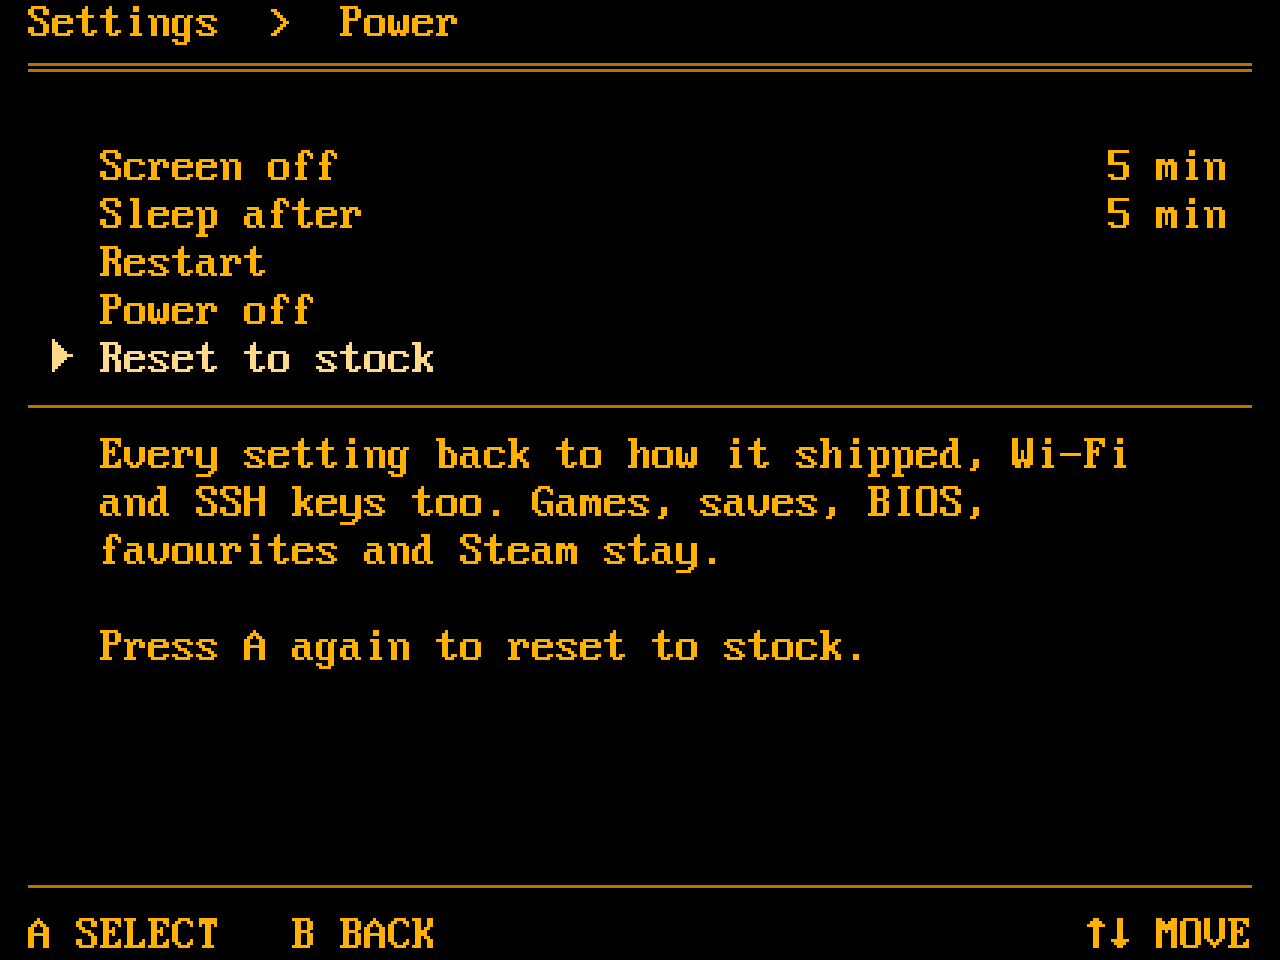
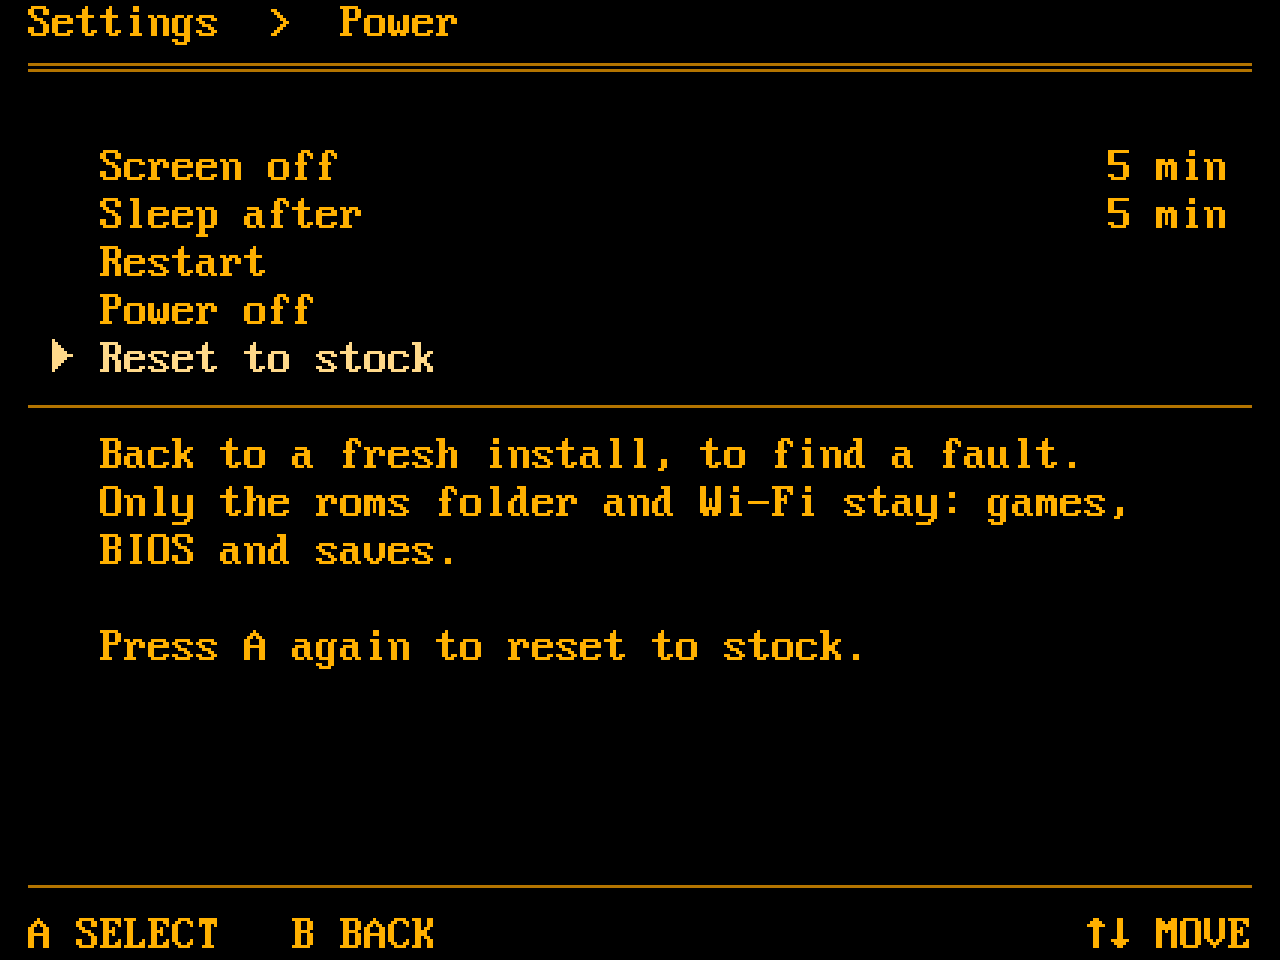
power: a reset keeps only the roms folder and Wi-Fi
What the line under Reset to stock says, now that the reset is a fresh
install for finding regressions: Steam and favourites go as well.

Changed region(s): [[0.0625, 0.4375, 0.875, 0.5938]]

diff --git a/src/lang.c b/src/lang.c
@@ -141,7 +141,7 @@ static const struct {
 	[S_ARMED_RESTART]   = { { "Press %c again to restart.", "もう一度 %c を押すと再起動します。" }, 47 },
 	[S_ARMED_OFF]       = { { "Press %c again to switch off.", "もう一度 %c を押すと電源を切ります。" }, 47 },
 	[S_ARMED_RESET]     = { { "Press %c again to reset to stock.", "もう一度 %c を押すと初期状態に戻します。" }, 47 },
-	[S_DESC_RESET]      = { { "Every setting back to how it shipped, Wi-Fi and SSH keys too. Games, saves, BIOS, favourites and Steam stay.", "すべての設定を出荷時に戻します。Wi-FiとSSHの鍵も消えます。ゲーム、セーブ、BIOS、お気に入り、Steamは残ります。" }, 135 },
+	[S_DESC_RESET]      = { { "Back to a fresh install, to find a fault. Only the roms folder and Wi-Fi stay: games, BIOS and saves.", "新規インストールの状態に戻して不具合を切り分けます。romsフォルダ(ゲーム、BIOS、セーブ)とWi-Fiだけが残ります。" }, 135 },
 	[S_FAIL_RESTART]    = { { "Could not restart (%d).", "再起動できませんでした (%d)。" }, 47 },
 	[S_FAIL_OFF]        = { { "Could not switch off (%d).", "電源を切れませんでした (%d)。" }, 47 },
 	[S_FAIL_RESET]      = { { "Could not reset (%d).", "初期状態に戻せませんでした (%d)。" }, 47 },

diff --git a/tools/mockup.py b/tools/mockup.py
@@ -640,9 +640,9 @@ POWER = [("Screen off", "5 min"), ("Sleep after", "5 min"), ("Restart", ""),
 power_reset = [row(" Settings  \u203a  Power", ""), RULE, ""]
 power_reset += [item(i == 4, n, v) for i, (n, v) in enumerate(POWER)]
 power_reset += [THIN,
-                "    Every setting back to how it shipped, Wi-Fi",
-                "    and SSH keys too. Games, saves, BIOS,",
-                "    favourites and Steam stay.",
+                "    Back to a fresh install, to find a fault.",
+                "    Only the roms folder and Wi-Fi stay: games,",
+                "    BIOS and saves.",
                 "",
                 "    Press A again to reset to stock."]
 power_reset += [""] * (ROWS - 2 - len(power_reset))
